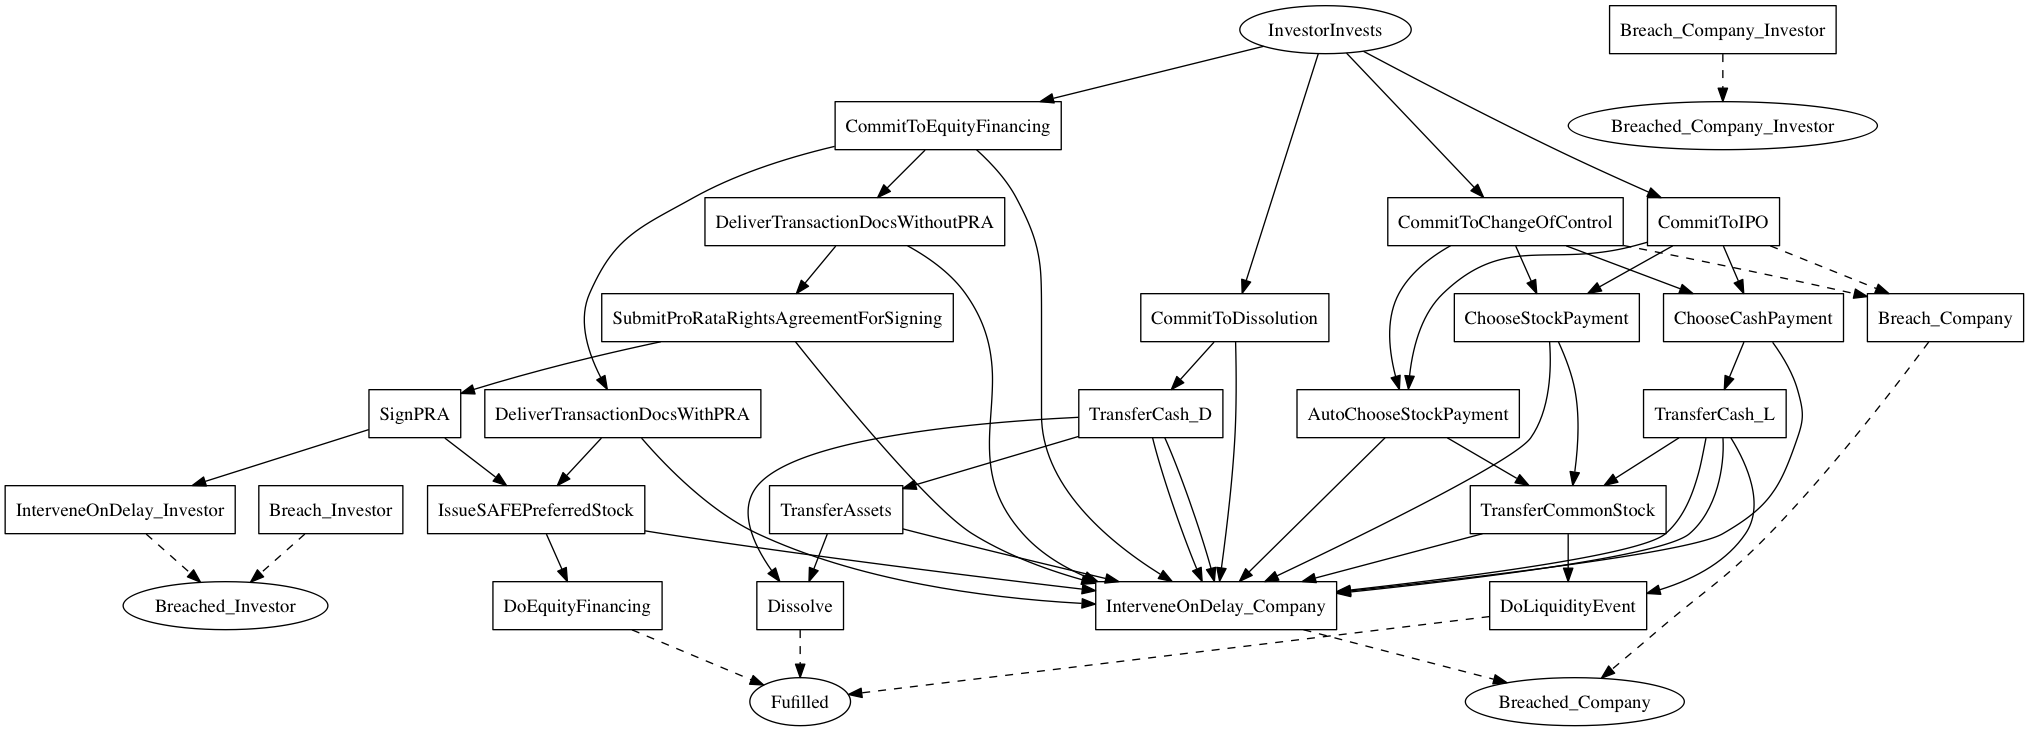
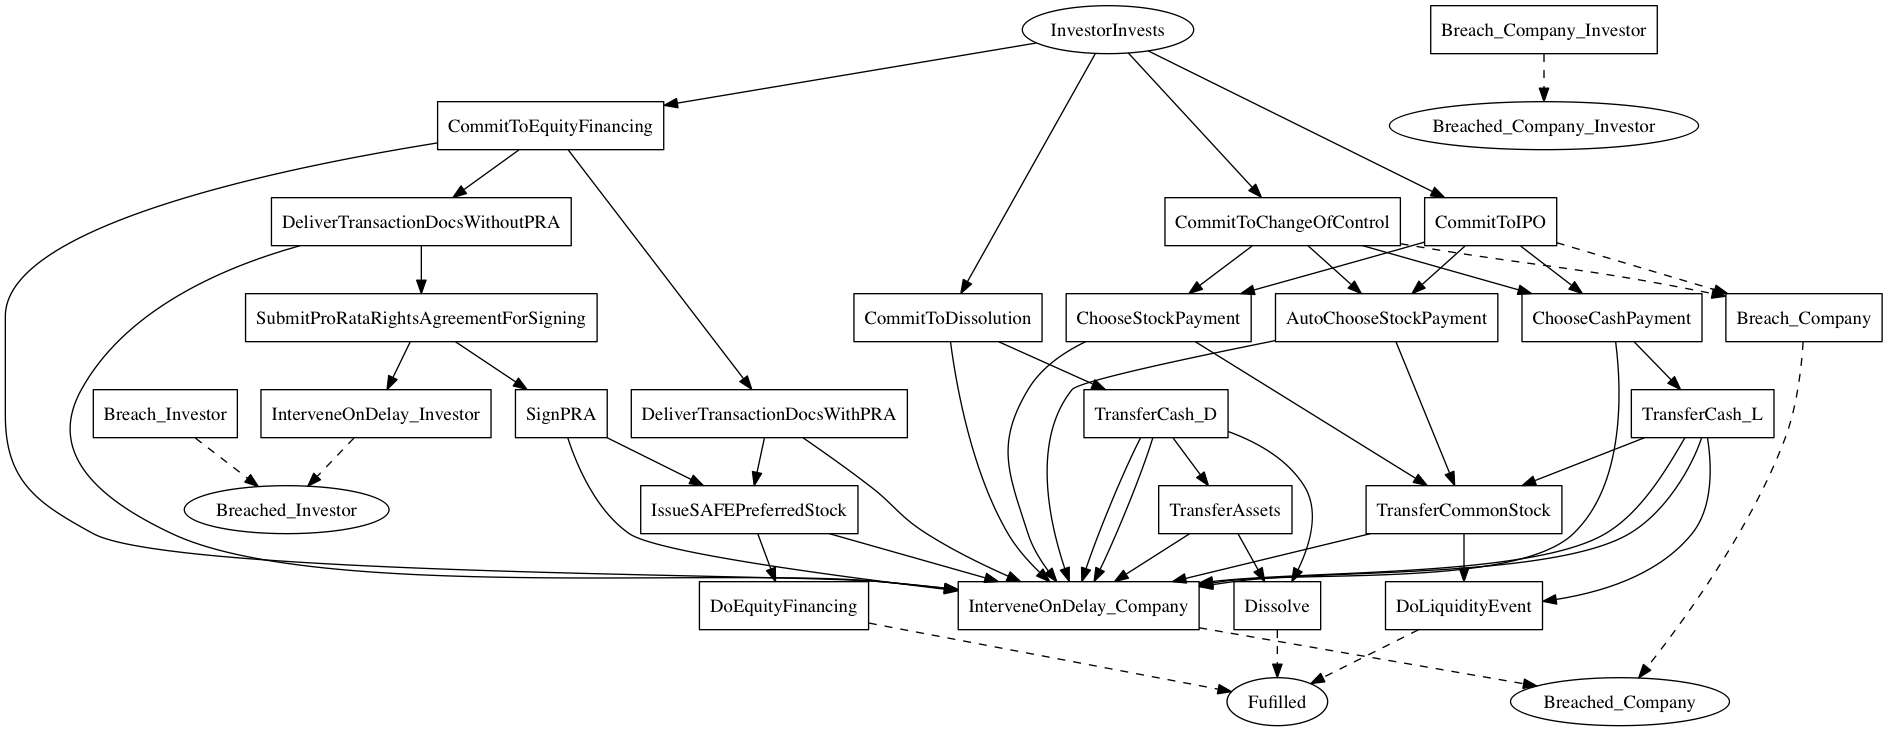
make `Next` wrapper expression optional

diff --git a/linear_state_machine_language/pyL4/src/parse_to_model/sexpr_to_L4Contract.py b/linear_state_machine_language/pyL4/src/parse_to_model/sexpr_to_L4Contract.py
@@ -509,15 +509,6 @@ class L4ContractConstructor(L4ContractConstructorInterface):
             elif head(SITUATION_DESCRIPTION_LABEL):
                 situation.description = chcaststr(x[1][1]) # extract from STRLIT expression
 
-            elif head(OUT_CONNECTIONS_LABEL):
-                if isinstance(x[1],SExpr) and isinstance(x[1][0],str) and (x[1][0] == 'guardsDisjointExhaustive' or x[1][0] == 'timeConstraintsPartitionFuture'):
-                    x = x[1]
-                    todo_once("guardsDisjointExhaustive etc in situation()")
-
-                action_rule_exprs = x.tillEnd(1).lst
-                for action_rule_expr in action_rule_exprs:
-                    self._with_macro_handling(action_rule_expr, self._mk_next_action_rule, (situation, parent_action)) # type:ignore
-
             elif head(PROSE_REFS_LABEL):
                 situation.prose_refs = cast(List,x[1:]).copy()
 
@@ -531,9 +522,19 @@ class L4ContractConstructor(L4ContractConstructorInterface):
                 situation.possible_floating_rule_types.add(floating_rule_type)
                 self.top.possible_floating_rule_types.add(floating_rule_type)
 
+            elif head(OUT_CONNECTIONS_LABEL):
+                if isinstance(x[1],SExpr) and isinstance(x[1][0],str) and (x[1][0] == 'guardsDisjointExhaustive' or x[1][0] == 'timeConstraintsPartitionFuture'):
+                    x = x[1]
+                    todo_once("guardsDisjointExhaustive etc in situation()")
+
+                action_rule_exprs = x.tillEnd(1).lst
+                for action_rule_expr in action_rule_exprs:
+                    self._with_macro_handling(action_rule_expr, self._mk_next_action_rule, (situation, parent_action)) # type:ignore
+
             else:
-                self.syntaxError(x, f"Unsupported declaration type {x[0]} in situation {situation_id}")
-                todo_once(f"Handle {x[0]} in situation dec")
+                self._with_macro_handling(x, self._mk_next_action_rule, (situation, parent_action)) # type:ignore
+                # self.syntaxError(x, f"Unsupported declaration type {x[0]} in situation {situation_id}")
+                # todo_once(f"Handle {x[0]} in situation dec")
 
         self._building_situation_id = None
         return situation
@@ -1093,9 +1094,6 @@ def eliminate_must(sexpr:SExpr, timeunit:str):
             child = sexpr2.lst[i]
 
             if isinstance(child, SExpr) and len(child.lst) >= 1 and (child.lst[0] in ("at","within")):
-                # if len(child.lst) > 2:
-                #     child.lst[1] = SExpr("(", child.lst[1:], child.line, child.col)
-                # if isinstance(child.lst[1], SExpr) and child.lst
                 other = SExpr("(", [breachActionId(role)] + list(sexpr2[3:i]) +
                               [SExpr("(", [cast(SExprOrStr,"after")] + child.lst[1:], sexpr2.line, sexpr2.col)] + sexpr2[i+1:], sexpr2.line,
                               sexpr2.col)
@@ -1114,7 +1112,6 @@ def eliminate_must(sexpr:SExpr, timeunit:str):
             elif child == "immediately":
                 pastdeadline = SExpr('(', ['==', 'next_event_td',
                             SExpr('(', ['+', "situation_entrance_td", "1" + timeunit], sexpr2.line, sexpr2.col)], sexpr2.line, sexpr2.col)
-                # other = SExpr("(", [ARBITER_ROLE, "may", interveneOnDelayId(role)] + sexpr2[3:i] + sexpr2[i+1:], sexpr2.line, sexpr2.col)
                 other = SExpr("(", [breachActionId(role), SExpr("(", ["when", pastdeadline], sexpr2.line, sexpr2.col)],
                               sexpr2.line, sexpr2.col)
                 break
@@ -1126,10 +1123,8 @@ def eliminate_must(sexpr:SExpr, timeunit:str):
         if len(sexpr2) == 3:
             other = SExpr("(", [ARBITER_ROLE, "may", interveneOnDelayId(role)], sexpr2.line, sexpr2.col)
 
-        print(f"Replacing\n{sexpr2}\nwith\n{may} and \n{other}\n")
+        # print(f"Replacing\n{sexpr2}\nwith\n{may} and \n{other}\n")
 
-        # if not other:
-        #     print(sexpr2)
         if other:
             return [may,other]
         else:

diff --git a/linear_state_machine_language/pyL4/src/independent/parse_sexpr.py b/linear_state_machine_language/pyL4/src/independent/parse_sexpr.py
@@ -193,9 +193,13 @@ def prettySExprStr(l:Union[str, SExpr], nspaces=0) -> str:
         return s
 
 def parse_file(path):
-    fil = open(path,encoding='utf8')
-    parsed = parse(fil.read())
-    fil.close()
+    try:
+        fil = open(path,encoding='utf8')
+        parsed = parse(fil.read())
+        fil.close()
+    except Exception as e:
+        print(f"Problem parsing file: {path}")
+        raise e
     return parsed
 
 if __name__ == '__main__':
